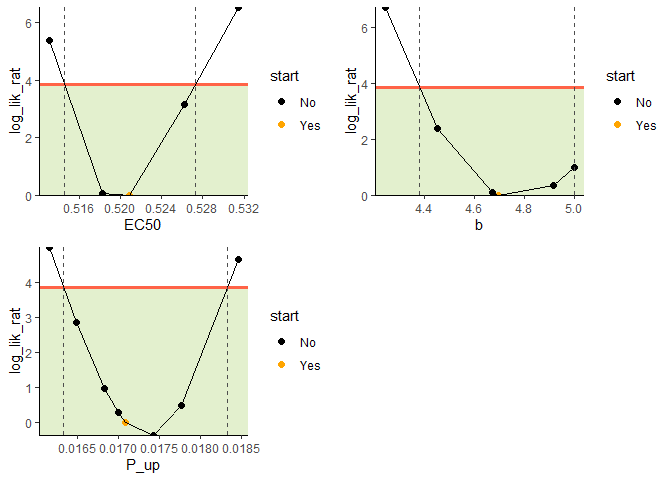
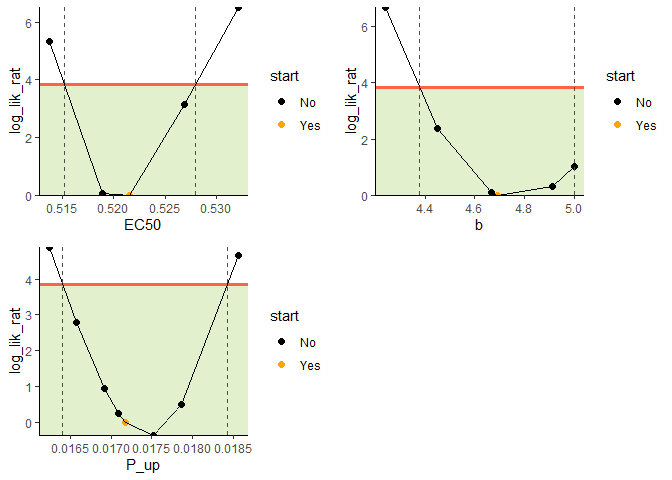
vignette: howto updated on how to implement fx() functions

diff --git a/doc/cvasi-1-manual.md b/doc/cvasi-1-manual.md
@@ -55,7 +55,7 @@ my_it <- set_param(my_it, c(kd=1.2, hb=0, alpha=9.2, beta=4.3))
 my_it
 #> 'GUTS-RED-IT' scenario
 #> param: kd=1.2, hb=0, alpha=9.2, beta=4.3
-#> init : D=0, H=0
+#> init: D=0, H=0
 #> endpt: L
 #> times: none
 #> forcs: none
@@ -75,7 +75,7 @@ GUTS_RED_IT() %>%
   set_param(c(kd=1.2, hb=0, alpha=9.2, beta=4.3))
 #> 'GUTS-RED-IT' scenario
 #> param: kd=1.2, hb=0, alpha=9.2, beta=4.3
-#> init : D=0, H=0
+#> init: D=0, H=0
 #> endpt: L
 #> times: none
 #> forcs: none
@@ -134,7 +134,7 @@ GUTS_RED_IT() %>%
   set_param(c(kd=1.2, hb=0, alpha=9.2, beta=4.3))
 #> 'GUTS-RED-IT' scenario
 #> param: kd=1.2, hb=0, alpha=9.2, beta=4.3
-#> init : D=0, H=0
+#> init: D=0, H=0
 #> endpt: L
 #> times: none
 #> forcs: none
@@ -229,7 +229,7 @@ displayed in the console output.
 myscenario
 #> 'GUTS-RED-IT' scenario
 #> param: kd=1.2, hb=0, alpha=9.2, beta=4.3
-#> init : D=0, H=0
+#> init: D=0, H=0
 #> endpt: L
 #> times: [0,5] n=4, regular
 #> forcs: none
@@ -266,7 +266,7 @@ myscenario %>%
   set_noexposure()
 #> 'GUTS-RED-IT' scenario
 #> param: kd=1.2, hb=0, alpha=9.2, beta=4.3
-#> init : D=0, H=0
+#> init: D=0, H=0
 #> endpt: L
 #> times: [0,5] n=4, regular
 #> forcs: none
@@ -299,9 +299,10 @@ DEB_abj() %>%
   set_window(length=3, interval=1) # Using moving exposure windows of length 3 days
 #> 'DEB_abj' scenario
 #> param: p_M=3211, v=0.023, k_J=0.63, MoA=4
-#> init : L=0.02, E=0, H=0, R=0, cV=0, Lmax=0
+#> init: L=0.02, E=0, H=0, R=0, cV=0, Lmax=0
 #> endpt: L, R
 #> times: [0,10] n=11, regular
+#> windws: length=3, interval=1
 #> forcs: none
 #> expsr:
 #>   time conc
@@ -320,13 +321,13 @@ metsulfuron %>%
   simulate()
 #>   time       BM E    M_int     C_int  FrondNo
 #> 1    0 50.00000 1   0.0000 0.0000000 500000.0
-#> 2    1 52.15858 1 223.0745 0.2560989 521585.8
-#> 3    2 52.43495 1 369.6344 0.4221192 524349.5
-#> 4    3 52.33917 1 463.0261 0.5297392 523391.7
-#> 5    4 52.17923 1 521.8927 0.5989176 521792.3
-#> 6    5 52.00016 1 558.6268 0.6432808 520001.6
-#> 7    6 51.81403 1 581.2187 0.6717006 518140.3
-#> 8    7 51.63740 1 474.0716 0.5497473 516374.0
+#> 2    1 52.15860 1 223.0746 0.2560990 521586.0
+#> 3    2 52.43488 1 369.6343 0.4221196 524348.8
+#> 4    3 52.33910 1 463.0257 0.5297395 523391.0
+#> 5    4 52.17916 1 521.8922 0.5989178 521791.6
+#> 6    5 52.00010 1 558.6262 0.6432809 520001.0
+#> 7    6 51.81396 1 581.2167 0.6716992 518139.6
+#> 8    7 51.63733 1 474.0708 0.5497470 516373.3
 ```
 
 `simulate()` returns the model state for each output time point. In this
@@ -341,12 +342,12 @@ metsulfuron %>%
   simulate() %>%
   tail()
 #>    time       BM E    M_int     C_int  FrondNo
-#> 66  6.5 51.72111 1 556.4478 0.6442288 517211.1
-#> 67  6.6 51.70319 1 544.1623 0.6302236 517031.9
-#> 68  6.7 51.68570 1 529.6855 0.6136648 516857.0
-#> 69  6.8 51.66877 1 513.1159 0.5946630 516687.7
-#> 70  6.9 51.65259 1 494.5480 0.5733237 516525.9
-#> 71  7.0 51.63740 1 474.0716 0.5497473 516374.0
+#> 66  6.5 51.72105 1 556.4461 0.6442276 517210.5
+#> 67  6.6 51.70312 1 544.1607 0.6302225 517031.2
+#> 68  6.7 51.68563 1 529.6839 0.6136637 516856.3
+#> 69  6.8 51.66871 1 513.1144 0.5946620 516687.1
+#> 70  6.9 51.65253 1 494.5465 0.5733227 516525.3
+#> 71  7.0 51.63733 1 474.0708 0.5497470 516373.3
 ```
 
 The resulting table now contains ten times as many rows because we
@@ -375,8 +376,8 @@ metsulfuron %>%
 #> 4    3 52.33917 1 463.0261 0.5297392 523391.7
 #> 5    4 52.17923 1 521.8927 0.5989176 521792.3
 #> 6    5 52.00016 1 558.6268 0.6432808 520001.6
-#> 7    6 51.81403 1 581.2187 0.6717006 518140.3
-#> 8    7 51.63740 1 474.0716 0.5497473 516374.0
+#> 7    6 51.81403 1 581.2174 0.6716992 518140.3
+#> 8    7 51.63740 1 474.0725 0.5497483 516374.0
 ```
 
 Although very effective, reducing `hmax` to small values may lead to
@@ -606,20 +607,20 @@ metsulfuron@init   # Initial state
 metsulfuron %>% simulate()
 #>    time       BM E     M_int      C_int  FrondNo
 #> 1     0 50.00000 1   0.00000 0.00000000 500000.0
-#> 2     1 52.15858 1 223.07447 0.25609887 521585.8
-#> 3     2 52.43495 1 369.63440 0.42211917 524349.5
-#> 4     3 52.33917 1 463.02605 0.52973924 523391.7
-#> 5     4 52.17923 1 521.89269 0.59891761 521792.3
-#> 6     5 52.00016 1 558.62681 0.64328081 520001.6
-#> 7     6 51.81403 1 581.21867 0.67170059 518140.3
-#> 8     7 51.63740 1 474.07158 0.54974731 516374.0
-#> 9     8 51.61806 1 301.84519 0.35015964 516180.6
-#> 10    9 52.32264 1 192.18727 0.21994721 523226.4
-#> 11   10 54.34850 1 122.36718 0.13482205 543485.0
-#> 12   11 57.08426 1  77.91217 0.08172830 570842.6
-#> 13   12 59.99459 1  49.60731 0.04951275 599945.9
-#> 14   13 62.96113 1  31.58537 0.03003980 629611.3
-#> 15   14 65.95879 1  20.11066 0.01825733 659587.9
+#> 2     1 52.15860 1 223.07463 0.25609895 521586.0
+#> 3     2 52.43488 1 369.63428 0.42211960 524348.8
+#> 4     3 52.33910 1 463.02568 0.52973949 523391.0
+#> 5     4 52.17916 1 521.89216 0.59891777 521791.6
+#> 6     5 52.00010 1 558.62619 0.64328091 520001.0
+#> 7     6 51.81396 1 581.21672 0.67169918 518139.6
+#> 8     7 51.63733 1 474.07075 0.54974702 516373.3
+#> 9     8 51.61800 1 301.84473 0.35015952 516180.0
+#> 10    9 52.32258 1 192.18697 0.21994713 523225.8
+#> 11   10 54.34844 1 122.36700 0.13482199 543484.4
+#> 12   11 57.08420 1  77.91205 0.08172826 570842.0
+#> 13   12 59.99453 1  49.60723 0.04951273 599945.3
+#> 14   13 62.96107 1  31.58532 0.03003978 629610.7
+#> 15   14 65.95873 1  20.11063 0.01825732 659587.3
 ```
 
 The model state in the first row is, by definition, equal to the initial
@@ -638,10 +639,10 @@ metsulfuron %>%
   head(5)
 #>   time       BM E    M_int
 #> 1    0 50.00000 1   0.0000
-#> 2    1 52.15858 1 223.0745
-#> 3    2 52.43495 1 369.6344
-#> 4    3 52.33917 1 463.0261
-#> 5    4 52.17923 1 521.8927
+#> 2    1 52.15860 1 223.0746
+#> 3    2 52.43488 1 369.6343
+#> 4    3 52.33910 1 463.0257
+#> 5    4 52.17916 1 521.8922
 ```
 
 Intermediate model variables can be enabled in the same manner:
@@ -652,10 +653,10 @@ metsulfuron %>%
   head(5)
 #>   time       BM E    M_int     C_int  FrondNo   C_int_u BM_fresh k_phot_eff k_resp_eff     f_Eff P_up_eff
 #> 1    0 50.00000 1   0.0000 0.0000000 500000.0 0.0000000 835.0000 0.07548561 0.02030631 1.0000000   0.0054
-#> 2    1 52.15858 1 223.0745 0.2560989 521585.8 0.3414652 871.0482 0.03746128 0.02030631 0.5049205   0.0054
-#> 3    2 52.43495 1 369.6344 0.4221192 524349.5 0.5628256 875.6636 0.01993781 0.02030631 0.2693322   0.0054
-#> 4    3 52.33917 1 463.0261 0.5297392 523391.7 0.7063190 874.0641 0.01760496 0.02030631 0.2376344   0.0054
-#> 5    4 52.17923 1 521.8927 0.5989176 521792.3 0.7985568 871.3931 0.01699676 0.02030631 0.2291285   0.0054
+#> 2    1 52.15860 1 223.0746 0.2560990 521586.0 0.3414653 871.0486 0.03746125 0.02030631 0.5049202   0.0054
+#> 3    2 52.43488 1 369.6343 0.4221196 524348.8 0.5628261 875.6624 0.01993781 0.02030631 0.2693320   0.0054
+#> 4    3 52.33910 1 463.0257 0.5297395 523391.0 0.7063193 874.0630 0.01760497 0.02030631 0.2376343   0.0054
+#> 5    4 52.17916 1 521.8922 0.5989178 521791.6 0.7985570 871.3920 0.01699677 0.02030631 0.2291285   0.0054
 ```
 
 ## Effect levels
@@ -692,16 +693,16 @@ metsulfuron %>%
   set_window(length=7, interval=1) %>%   # enable moving exposure windows
   effect(max_only=FALSE)                 # return effects of all windows
 #> # A tibble: 8 × 5
-#>   scenario          BM         r dat.start dat.end
-#>   <list>         <dbl>     <dbl>     <dbl>   <dbl>
-#> 1 <LmnSchmS>  2.68e- 1  9.06e- 1         0       7
-#> 2 <LmnSchmS>  2.65e- 1  8.95e- 1         1       8
-#> 3 <LmnSchmS>  2.48e- 1  8.29e- 1         2       9
-#> 4 <LmnSchmS>  2.05e- 1  6.69e- 1         3      10
-#> 5 <LmnSchmS>  1.47e- 1  4.63e- 1         4      11
-#> 6 <LmnSchmS>  7.39e- 2  2.23e- 1         5      12
-#> 7 <LmnSchmS>  3.15e- 3  9.18e- 3         6      13
-#> 8 <LmnSchmS> -6.66e-16 -1.78e-15         7      14
+#>   scenario              BM            r dat.start dat.end
+#>   <list>             <dbl>        <dbl>     <dbl>   <dbl>
+#> 1 <LmnSchmS>  0.268         0.906               0       7
+#> 2 <LmnSchmS>  0.265         0.895               1       8
+#> 3 <LmnSchmS>  0.248         0.829               2       9
+#> 4 <LmnSchmS>  0.205         0.669               3      10
+#> 5 <LmnSchmS>  0.147         0.463               4      11
+#> 6 <LmnSchmS>  0.0739        0.223               5      12
+#> 7 <LmnSchmS>  0.00315       0.00918             6      13
+#> 8 <LmnSchmS> -0.0000000571 -0.000000166         7      14
 ```
 
 In few cases, `effect()` may report spurious non-zero effect levels that
@@ -837,26 +838,29 @@ allowed range of multiplication factors.
 # References
 
 - EFSA PPR Panel (EFSA Panel on Plant Protection Products and their
-  Residues), Ockleford C., Adriaanse P., Berny P., et al., 2018:
-  *Scientific Opinion on the state of the art of
-  Toxicokinetic/Toxicodynamic (TKTD) effect models for regulatory risk
-  assessment of pesticides for aquatic organisms*. EFSA Journal 2018;
-  16(8):5377, 188 pp. DOI:
+  Residues), Ockleford C., et al., 2018: *Scientific Opinion on the
+  state of the art of Toxicokinetic/Toxicodynamic (TKTD) effect models
+  for regulatory risk assessment of pesticides for aquatic organisms*.
+  EFSA Journal 2018; 16(8):5377, 188 pp. DOI:
   [10.2903/j.efsa.2018.5377](https://doi.org/10.2903/j.efsa.2018.5377)
-- Geiger D.L., Call D.J., and Brooke L.T., 1988: *Acute toxicities of
-  organic chemicals to fathead minnows (Pimephales promelas): Volume
-  IV*, pp. 195-197. University of Wisconsin-Superior, Center for Lake
-  Superior Environmental Studies. ISBN 9780961496838.
-- Klein J., Cedergreen N., Heine S., Reichenberger S., Rendal C.,
-  Schmitt W., Hommen U., 2021: *Refined description of the Lemna TKTD
-  growth model based on Schmitt et al. (2013) - equation system and
-  default parameters*. Report of the working group *Lemna* of the SETAC
-  Europe Interest Group Effect Modeling. Version 1, uploaded on 22.
-  Sept. 2021. <https://www.setac.org/group/effect-modeling.html>
-- Schmitt W., Bruns E., Dollinger M., and Sowig P., 2013: *Mechanistic
-  TK/TD-model simulating the effect of growth inhibitors on Lemna
-  populations*. Ecol Model 255, pp. 1-10. DOI:
+- Geiger D.L., et al., 1988: *Acute toxicities of organic chemicals to
+  fathead minnows (Pimephales promelas): Volume IV*, pp. 195-197.
+  University of Wisconsin-Superior, Center for Lake Superior
+  Environmental Studies. ISBN 9780961496838.
+- Klein J., et al., 2021: *Refined description of the Lemna TKTD growth
+  model based on Schmitt et al. (2013) - equation system and default
+  parameters*. Report of the working group *Lemna* of the SETAC Europe
+  Interest Group Effect Modeling. Version 1.1, uploaded on 09 May 2022.
+  <https://www.setac.org/group/effect-modeling.html>
+- Schmitt W., et al., 2013: *Mechanistic TK/TD-model simulating the
+  effect of growth inhibitors on Lemna populations*. Ecol Model 255,
+  pp. 1-10. DOI:
   [10.1016/j.ecolmodel.2013.01.017](https://doi.org/10.1016/j.ecolmodel.2013.01.017)
+- Weber D., et al., 2012: *Combination of a higher-tier flow-through
+  system and population modeling to assess the effects of time-variable
+  exposure of isoproturon on the green algae Desmodesmus subspictatus
+  and Pseudokirchneriella subcapitata*. Environ Toxicol Chem 31(4),
+  pp. 899-908. DOI: [10.1002/etc.1765](https://doi.org/10.1002/etc.1765)
 - Wickham H. and Grolemund G., 2017: *R for Data Science: Import, Tidy,
   Transform, Visualize, and Model Data* (1st ed.). O’Reilly Media.
   <https://r4ds.had.co.nz>

diff --git a/doc/cvasi-2-howto.md b/doc/cvasi-2-howto.md
@@ -58,7 +58,7 @@ myscenario
 #> tag: Lab experiment #1
 #> param: Emax=1, AperBM=1000, Kbm=1, P_Temp=0, MolWeight=390.4, k_phot_fix=1, k_phot_max=0.47, k_resp=0.05, k_loss=0, Tmin=8, Tmax=40.5, Topt=26.7, t_ref=25, Q10=2, k_0=3, a_k=5e-05, C_P=0.3,
 #> CP50=0.0043, a_P=1, KiP=101, C_N=0.6, CN50=0.034, a_N=1, KiN=604, BM50=176, mass_per_frond=1e-04, BMw2BMd=16.7
-#> init : BM=0.0012, E=1, M_int=0
+#> init: BM=0.0012, E=1, M_int=0
 #> endpt: BM, r
 #> times: none
 #> forcs: none
@@ -175,7 +175,6 @@ exposure_profile <- data.frame(time=0:14, conc=random_conc)
 minnow_it %>%
   set_exposure(exposure_profile) %>%  # set a specific exposure scenario
   epx()  # run EPx calculations
-#> Warning: package 'purrr' was built under R version 4.3.3
 #> # A tibble: 1 × 3
 #>   scenario   L.EP10 L.EP50
 #>   <list>      <dbl>  <dbl>
@@ -484,8 +483,8 @@ fit2 <- calibrate(
   verbose=FALSE
 )
 fit2$par
-#>       EC50          b       P_up 
-#> 0.52090177 4.69630443 0.01708181
+#>      EC50         b      P_up 
+#> 0.5215368 4.6905906 0.0171712
 
 # Update the scenario with fitted parameter and simulate all trials
 fitted_tktd <- fitted_growth %>%
@@ -537,14 +536,14 @@ res <- lik_profile(x = cs, # the calibration set
                                  b = list(1, 5),
                                  P = list(0.0001, 0.2)))
 #> Profiling: EC50
-#> start param value: 0.521LL:-237.245
+#> start param value: 0.522LL:-237.227
 #> hit 95% Conf Region, changing direction
 #> hit 95% Conf Region, end of profiling
 #> Profiling: b
-#> start param value: 4.696LL:-237.245
+#> start param value: 4.691LL:-237.227
 #> hit 95% Conf Region, changing direction
 #> Profiling: P_up
-#> start param value: 0.017LL:-237.245
+#> start param value: 0.017LL:-237.227
 #> hit 95% Conf Region, changing direction
 #> hit 95% Conf Region, end of profiling
 # visualise profiling results
@@ -557,9 +556,9 @@ plot_lik_profile(res)
 
 # access 95% confidence intervals of profiled parameters
 res$EC50$confidence_interval
-#> [1] 0.5145915 0.5272611
+#> [1] 0.5151939 0.5279234
 res$b$confidence_interval
-#> [1] 4.383194 5.000000
+#> [1] 4.377094 5.000000
 ```
 
 Finally, relations between estimates of the calibrated parameters can be
@@ -623,9 +622,6 @@ sc2 <- sc1 %>%
 # scenario `sc1` will be simulated for *t = [0, 7]*, and
 # scenario `sc2` will be simulated for *t = [7, 14]*.
 sq <- sequence(list(sc1, sc2), breaks=7)
-#> Modifying sequence to consider breaks ...
-#>   Scenario #1: simulated period [0, 7]
-#>   Scenario #2: simulated period [7, 14]
 simulate(sq)
 #>    time       BM E      M_int      C_int  FrondNo
 #> 1     0 50.00000 1   0.000000 0.00000000 500000.0
@@ -827,7 +823,7 @@ new("MyGuts", name="My custom model") %>%
 myscenario
 #> 'My custom model' scenario
 #> param: kd=22, hb=0.01, z=0.5, kk=0.08
-#> init : Dw=0, H=0
+#> init: Dw=0, H=0
 #> endpt: L
 #> times: [0,5] n=6, regular
 #> forcs: none
@@ -931,17 +927,17 @@ implement this specialized endpoint, we need to overload the function
 setMethod("fx", "MyGuts", function(scenario, ...) fx_myguts(scenario, ...))
 
 # @param scenario Scenario object to assess
-# @param window Start & end time of the moving exposure window
 # @param ... any additional parameters
-fx_myguts <- function(scenario, window, ...) {
+fx_myguts <- function(scenario, ...) {
   # simulate the scenario (it is already clipped to the moving exposure window)
   out <- simulate(scenario, ...)
   # only use model state at the end of the simulation
-  out <- tail(out, 1)
+  end <- tail(out, 1)
+  # length of the simulated period, first column of result contains time
+  t <- tail(out[, 1], 1)- out[[1, 1]]
   # calculate survival according to EFSA Scientific Opinion on TKTD models
   # p. 33, doi:10.2903/j.efsa.2018.5377
-  t <- unname(window[2] - window[1])
-  survival <- exp(-out$H) * exp(-scenario@param$hb * t)
+  survival <- exp(-end$H) * exp(-scenario@param$hb * t)
   return(c("L"=survival))
 }
 
@@ -959,10 +955,9 @@ numerical vector containing the effect endpoints for the provided
 scenario and moving exposure window. The scenario will already be
 parameterized to only simulate the current exposure window. The return
 value of `fx()` will then be used to calculate effect levels. In case of
-models requiring a control scenario, the effect level will be calculated
-as `1 - effect/control`. For models not requiring a control, the
-overloaded `fx()` must return the final effect level, i.e. a value from
-the interval `[0,1]` (0% to 100% effect).
+models requiring a control scenario, the effect level will generally be
+calculated as `1 - effect/control`. For models not requiring a control,
+the overloaded `fx()` must return the final effect value.
 
 ## Complete working example
 

diff --git a/README.md b/README.md
@@ -104,13 +104,18 @@ Calculation of effects:
 ``` r
 # calculate effect level
 scenario %>% effect()
-#> # A tibble: 1 x 4
+#> # A tibble: 1 × 4
 #>   scenario         L L.dat.start L.dat.end
 #>   <list>       <dbl>       <dbl>     <dbl>
 #> 1 <GutsRdIt> 0.00135           1       400
 
 # create a dose-response curve
 scenario %>% dose_response() -> drc
+#> 
+#> Attaching package: 'purrr'
+#> The following object is masked from 'package:testthat':
+#> 
+#>     is_null
 head(drc)
 #>   endpoint        mf      effect
 #> 1        L  3.812500 0.009915394
@@ -130,7 +135,7 @@ plot(drc)
 
 # derive EPx values
 scenario %>% epx()
-#> # A tibble: 1 x 3
+#> # A tibble: 1 × 3
 #>   scenario   L.EP10 L.EP50
 #>   <list>      <dbl>  <dbl>
 #> 1 <GutsRdIt>   19.0   82.1
